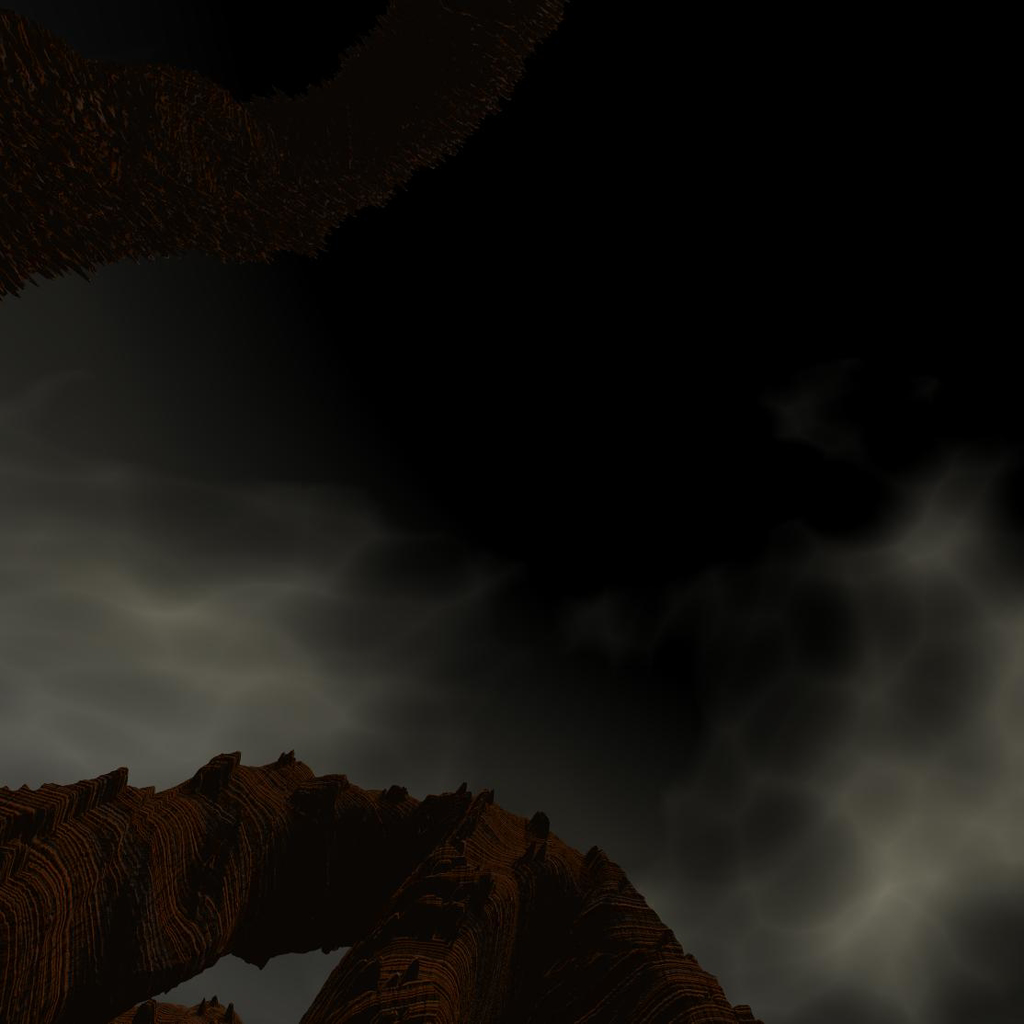
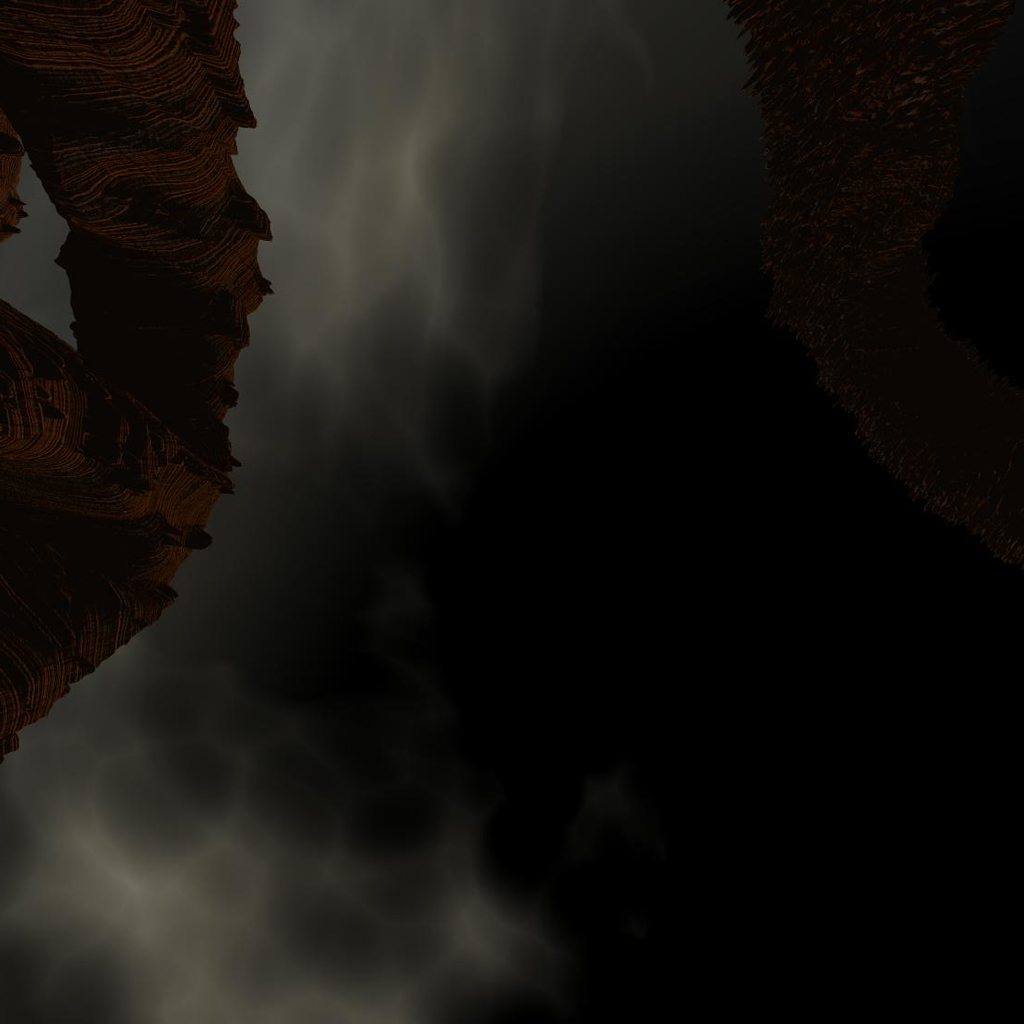
底面、杰尼龟、天空盒

diff --git a/main.cpp b/main.cpp
@@ -8,8 +8,8 @@
 #include <string>
 
 // 窗口大小
-const GLuint SCR_WIDTH = 800;
-const GLuint SCR_HEIGHT = 800;
+//const GLuint SCR_WIDTH = 1000;
+//const GLuint SCR_HEIGHT = 800;
 
 //初始让鼠标位于窗口中心
 float lastX = SCR_WIDTH / 2.0f;
@@ -19,6 +19,10 @@ int mainWindow;
 
 //鼠标从外面进入窗口,设为true
 bool firstMouse = true;
+
+// timing
+float deltaTime = 0.0f;
+float lastFrame = 0.0f;
 
 Camera* camera = new Camera(glm::vec3(0.0f, 0.0f, 3.0f));
 Light* light = new Light();
@@ -140,7 +144,7 @@ void init()
 	fshader = "shaders/fshader_win.glsl";
 
 	// 设置光源位置
-	light->setTranslation(glm::vec3(1.0, 15.0, 15.0));
+	light->setTranslation(glm::vec3(1.0, 10.0, 10.0));
 	light->setAmbient(glm::vec4(1.0, 1.0, 1.0, 1.0)); // 环境光
 	light->setDiffuse(glm::vec4(1.0, 1.0, 1.0, 1.0)); // 漫反射
 	light->setSpecular(glm::vec4(1.0, 1.0, 1.0, 1.0)); // 镜面反射
@@ -153,7 +157,7 @@ void init()
 	table->readObj("./assets/table.obj");
 
 	// 设置物体的旋转位移
-	table->setTranslation(glm::vec3(-0.5, 0.2, 0.0));
+	table->setTranslation(glm::vec3(-0.5, 0.0, 0.0));
 	table->setRotation(glm::vec3(-90.0, 0.0, 0.0));
 	table->setScale(glm::vec3(1.0, 1.0, 1.0));
 
@@ -166,42 +170,42 @@ void init()
 	// 加到painter中
 	painter->addMesh(table, "table_a", "./assets/table.png", vshader, fshader); 	// 指定纹理与着色器
 
-	TriMesh* wawa = new TriMesh();
-
-	// @TODO: Task2 读取娃娃模型
-	wawa->setNormalize(true);
-	wawa->readObj("./assets/wawa.obj");
+	// 杰尼龟
+	TriMesh* squirtle = new TriMesh();
+	squirtle->setNormalize(true);
+	squirtle->readOff("./assets/off/Squirtle.off");
 
 	// 设置物体的旋转位移
-	wawa->setTranslation(glm::vec3(0.5, 0.3, 0.0));
-	wawa->setRotation(glm::vec3(-90.0, 0.0, 0.0));
-	wawa->setScale(glm::vec3(1.0, 1.0, 1.0));
+	squirtle->setTranslation(glm::vec3(0.0, 0.3, 0.0));
+	squirtle->setRotation(glm::vec3(0.0, 0.0, 0.0));
+	squirtle->setScale(glm::vec3(1.0, 1.0, 1.0));
 
 	// 设置材质
-	wawa->setAmbient(glm::vec4(0.2, 0.2, 0.2, 1.0)); // 环境光
-	wawa->setDiffuse(glm::vec4(0.7, 0.7, 0.7, 1.0)); // 漫反射
-	wawa->setSpecular(glm::vec4(0.2, 0.2, 0.2, 1.0)); // 镜面反射
-	wawa->setShininess(1.0); //高光系数
+	squirtle->setAmbient(glm::vec4(0.2, 0.2, 0.2, 1.0)); // 环境光
+	squirtle->setDiffuse(glm::vec4(0.7, 0.7, 0.7, 1.0)); // 漫反射
+	squirtle->setSpecular(glm::vec4(0.2, 0.2, 0.2, 1.0)); // 镜面反射
+	squirtle->setShininess(1.0); //高光系数
 
-	// 加到painter中
-	painter->addMesh(wawa, "wawa_a", "./assets/wawa.png", vshader, fshader); 	// 指定纹理与着色器
+	painter->addMesh(squirtle, "squirtle", "./assets/Squirtle.png", vshader, fshader);
+
+	TriMesh* plane = new TriMesh();
+
+	plane->setNormalize(false);
+	// 创建正方形平面，给它一个其他颜色
+	plane->generateTriangle(glm::vec3(0.0, 0, 0.0));
+	plane->setTranslation(glm::vec3(0, 0, 0));
+	plane->setRotation(glm::vec3(-90.0, 0, 0));
+	plane->setScale(glm::vec3(3, 3, 3));
+
+	painter->addMesh(plane, "plane", "./assets/RedCarpet.jpg", "./shaders/plane_vs.glsl", "./shaders/plane_fs.glsl");
 
 	glClearColor(1.0, 1.0, 1.0, 1.0);
-	// glClearColor(0.0, 0.0, 0.0, 1.0);
 }
 
 
-//true: 正交投影，false: 透视投影
-bool isOrtho = true;
-
 void display()
 {
-	glClearColor(0.1f, 0.1f, 0.1f, 1.0f);
-	glClear(GL_COLOR_BUFFER_BIT | GL_DEPTH_BUFFER_BIT);
-
 	painter->drawMeshes(light, camera);
-
-	//glutSwapBuffers();
 }
 
 
@@ -262,6 +266,22 @@ void mouse_callback(GLFWwindow* window, double xpos, double ypos)
 void scroll_callback(GLFWwindow* window, double xoffset, double yoffset)
 {
 	camera->processMouseScroll(yoffset);
+}
+
+// process all input: query GLFW whether relevant keys are pressed/released this frame and react accordingly
+void processInput(GLFWwindow* window)
+{
+	if (glfwGetKey(window, GLFW_KEY_ESCAPE) == GLFW_PRESS)
+		glfwSetWindowShouldClose(window, true);
+
+	if (glfwGetKey(window, GLFW_KEY_W) == GLFW_PRESS)
+		camera->processKeyboard(FORWARD, deltaTime);
+	if (glfwGetKey(window, GLFW_KEY_S) == GLFW_PRESS)
+		camera->processKeyboard(BACKWARD, deltaTime);
+	if (glfwGetKey(window, GLFW_KEY_A) == GLFW_PRESS)
+		camera->processKeyboard(LEFT, deltaTime);
+	if (glfwGetKey(window, GLFW_KEY_D) == GLFW_PRESS)
+		camera->processKeyboard(RIGHT, deltaTime);
 }
 
 void cleanData() {
@@ -328,8 +348,11 @@ int main(int argc, char** argv)
 	// 启用深度测试
 	glEnable(GL_DEPTH_TEST);
 
+	camera->projMatrix = glm::perspective(glm::radians(camera->Zoom), (float)SCR_WIDTH / (float)SCR_HEIGHT, 0.1f, 100.0f);
+
 	// Init mesh, shaders, buffer
 	init();
+
 	// 输出帮助信息
 	printHelp();
 
@@ -351,8 +374,18 @@ int main(int argc, char** argv)
 
 	while (!glfwWindowShouldClose(window))
 	{
+		// per-frame time logic
+		float currentFrame = glfwGetTime();
+		deltaTime = currentFrame - lastFrame;
+		lastFrame = currentFrame;
+
+		// input
+		processInput(window);
+
+		glClearColor(0.1f, 0.1f, 0.1f, 1.0f);
+		glClear(GL_COLOR_BUFFER_BIT | GL_DEPTH_BUFFER_BIT);
+
 		display();
-		//reshape();
 
 		// draw skybox as last
 		glDepthFunc(GL_LEQUAL);  // change depth function so depth test passes when values are equal to depth buffer's content

diff --git a/MeshPainter.cpp b/MeshPainter.cpp
@@ -145,7 +145,7 @@ void MeshPainter::drawMesh(TriMesh* mesh, openGLObject &object, Light *light, Ca
 	camera->updateCamera();
 	camera->viewMatrix = camera->getViewMatrix();
 
-	glBindVertexArray(object.vao);
+    glBindVertexArray(object.vao);
 	glUseProgram(object.program);
 
 	// 物体的变换矩阵
@@ -227,8 +227,10 @@ void MeshPainter::load_texture_STBImage(const std::string& file_name, GLuint& te
 
 	int width, height, channels = 0;
     unsigned char *pixels = NULL;
-    // 读取图片的时候先翻转一下图片，如果不设置的话显示出来是反过来的图片
-    stbi_set_flip_vertically_on_load(true);
+    
+    // 读取图片的时候先翻转一下图片，如果不设置的话显示出来是反过来的图片，打开会翻转skybox
+    //stbi_set_flip_vertically_on_load(true);
+    
     // 读取图片数据
     pixels = stbi_load(file_name.c_str(), &width, &height, &channels, 0);
 

diff --git a/include/Angel.h b/include/Angel.h
@@ -68,7 +68,7 @@ GLuint InitShader( const char* vertexShaderFile,
 const GLfloat  DivideByZeroTolerance = GLfloat(1.0e-07);
 
 //  Degrees-to-radians constant 
-const GLfloat  DegreesToRadians = M_PI / 180.0;
+const GLfloat  DegreesToRadians = (float) (M_PI / 180.0);
 
 }  // namespace Angel
 
